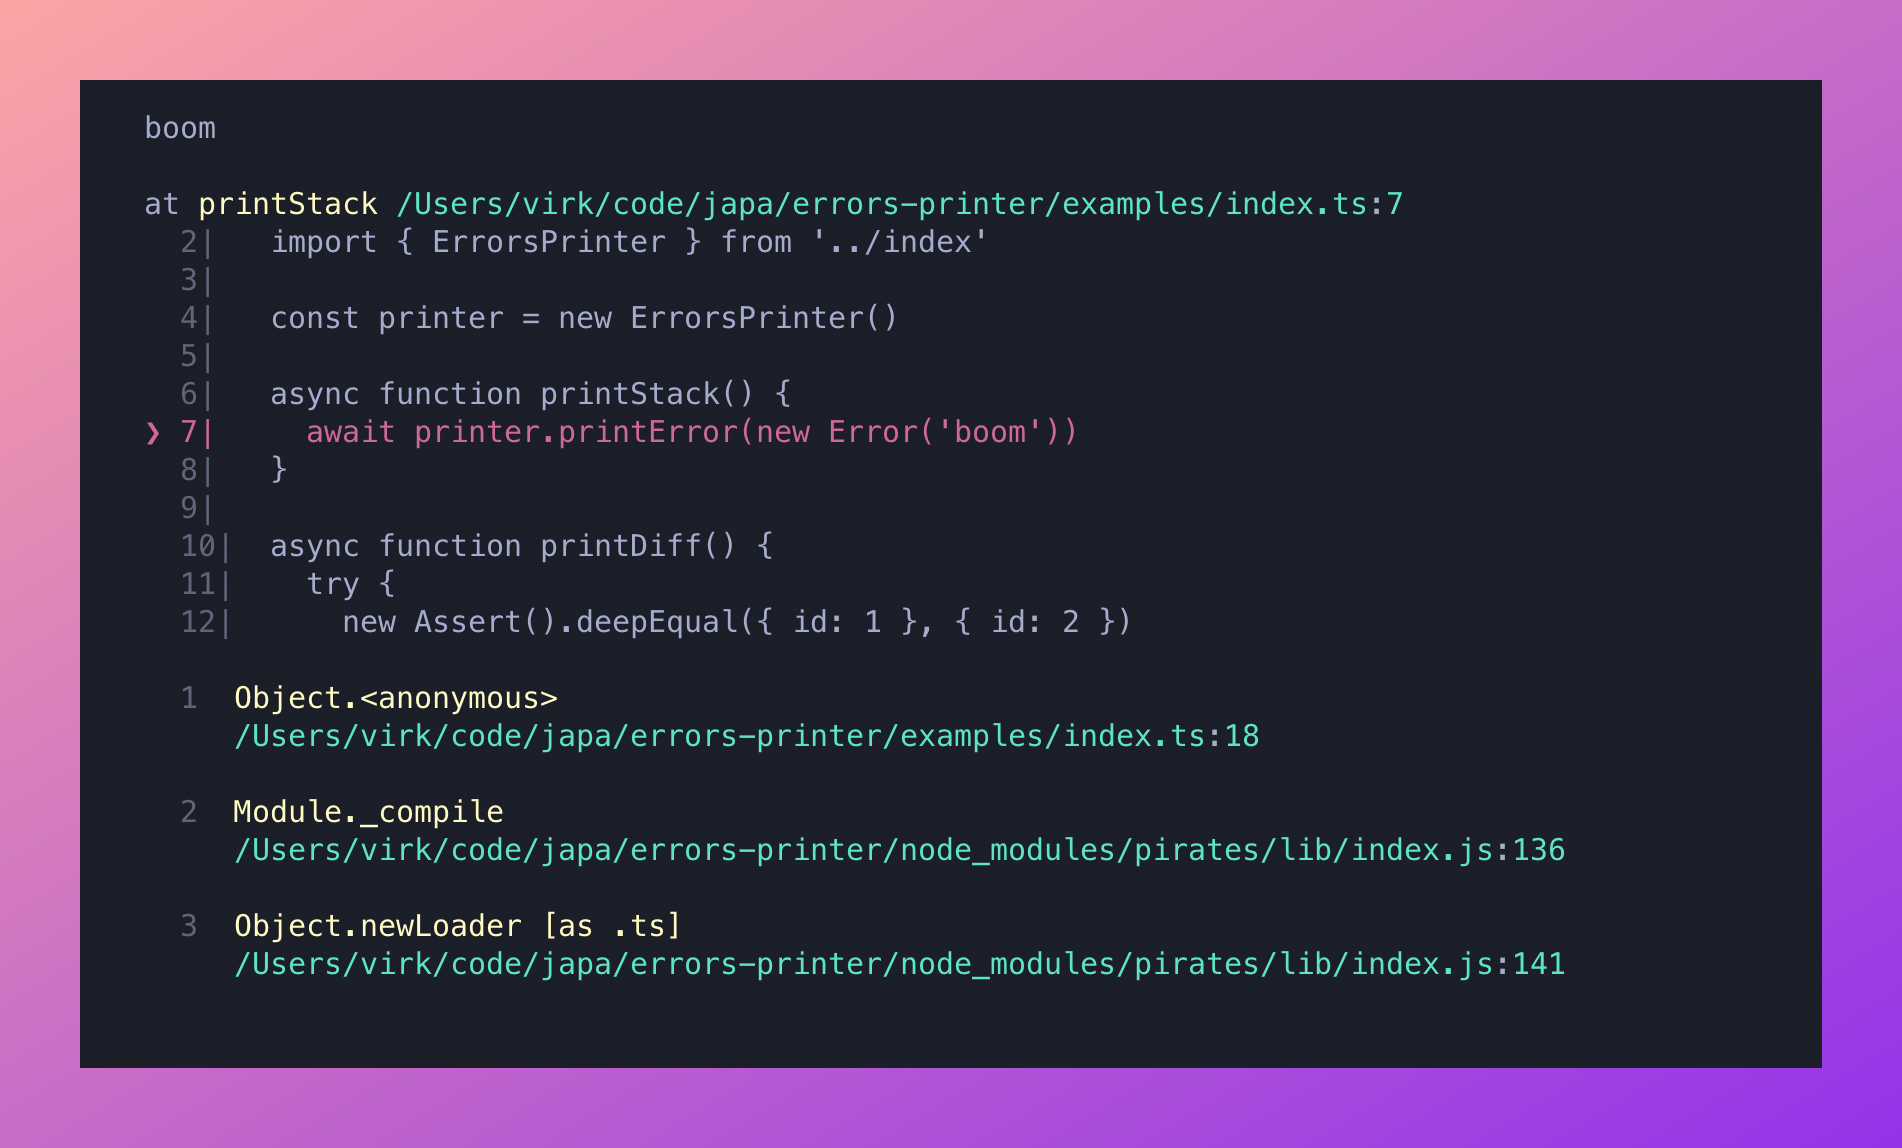
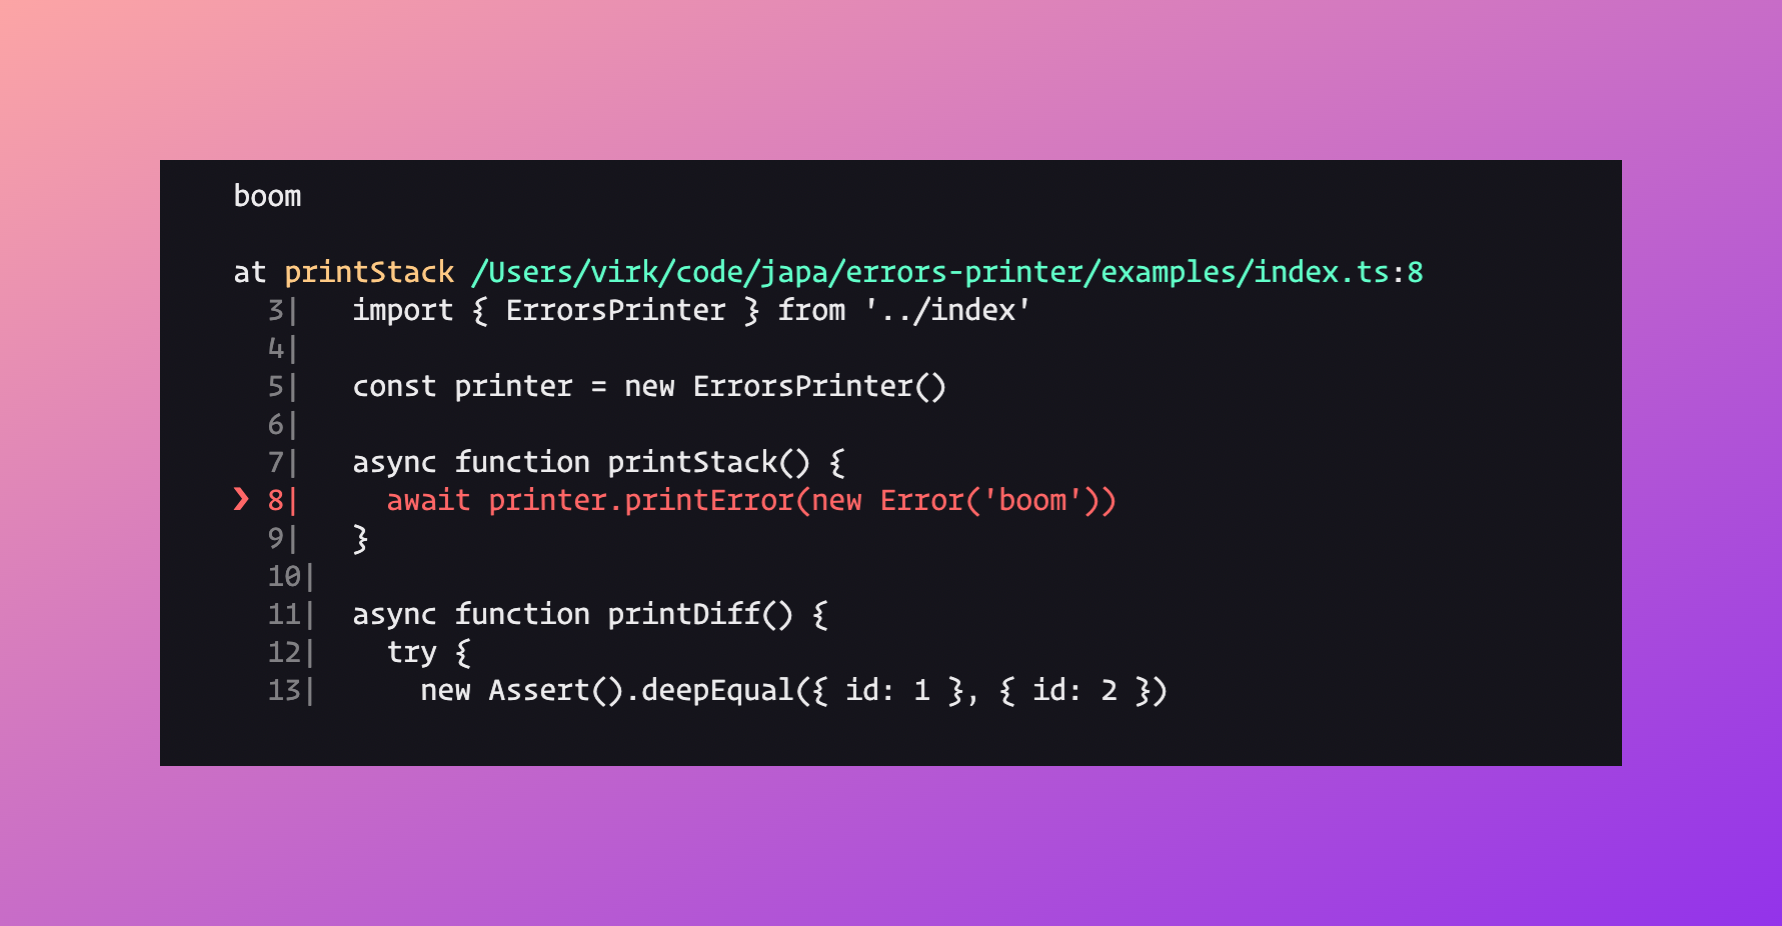
docs(README): update screenshots

diff --git a/README.md b/README.md
@@ -76,7 +76,24 @@ try {
 }
 ```
 
-![](assets/diff-error.png)
+![](assets/assertion-error.png)
+
+**Jest error**
+
+```ts
+import expect from 'expect'
+import { ErrorsPrinter } from '@japa/errors-printer'
+
+const printer = new ErrorsPrinter()
+
+try {
+  expect({ bar: 'baz' }).toEqual(expect.not.objectContaining({ bar: 'baz' }))
+} catch (error) {
+  await printer.printError(error)
+}
+```
+
+![](assets/jest-error.png)
 
 **Error stack**
 
